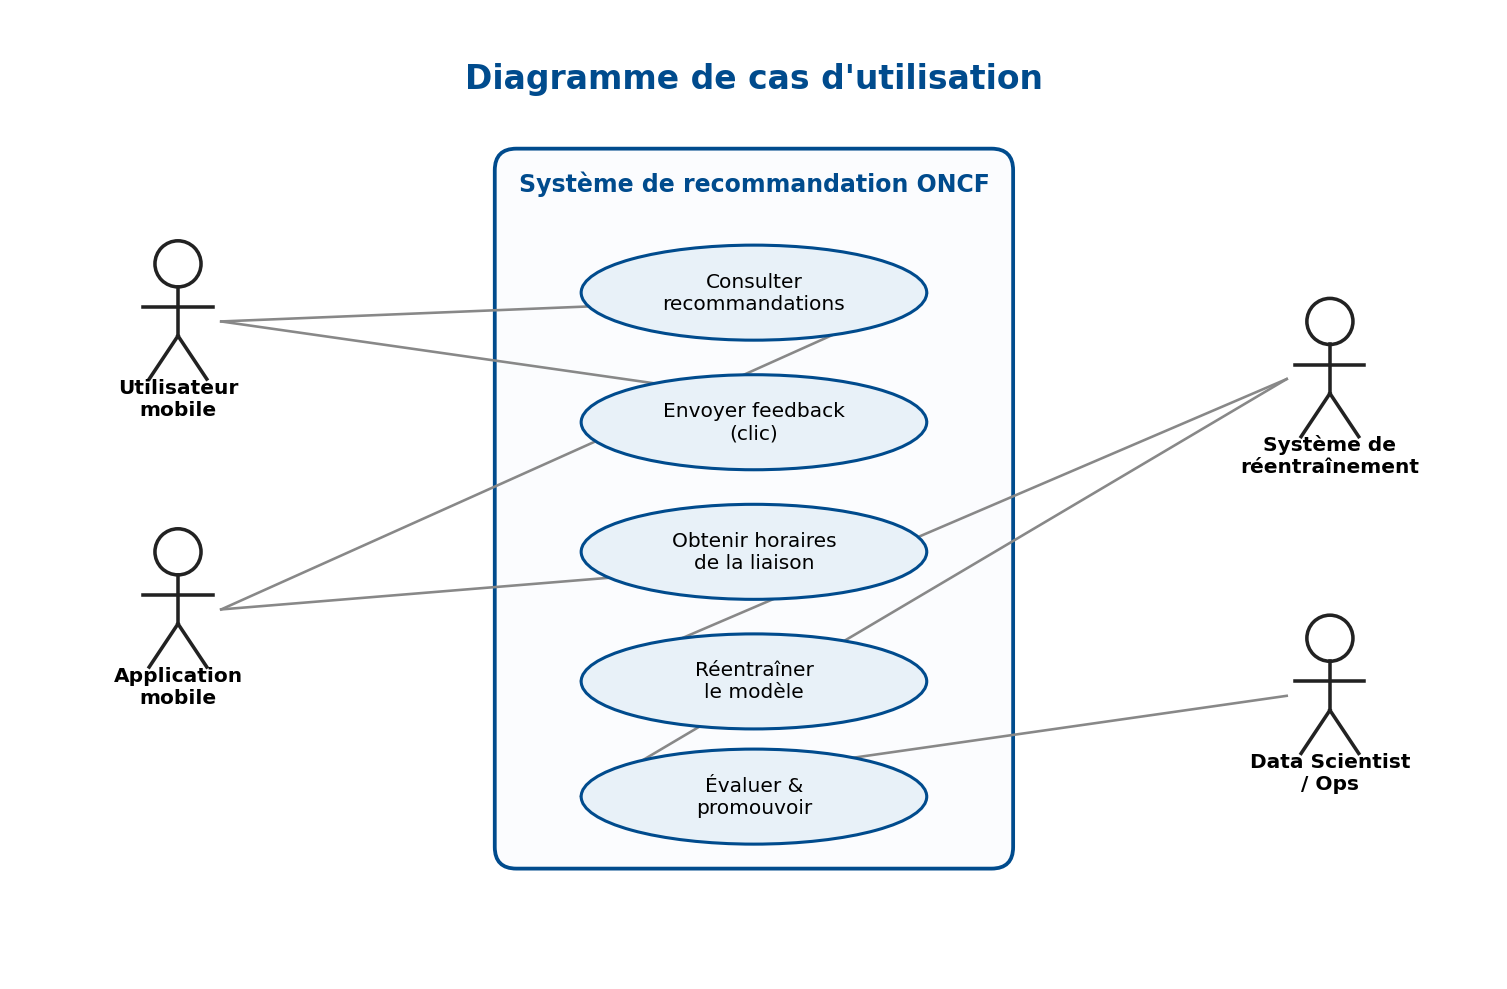
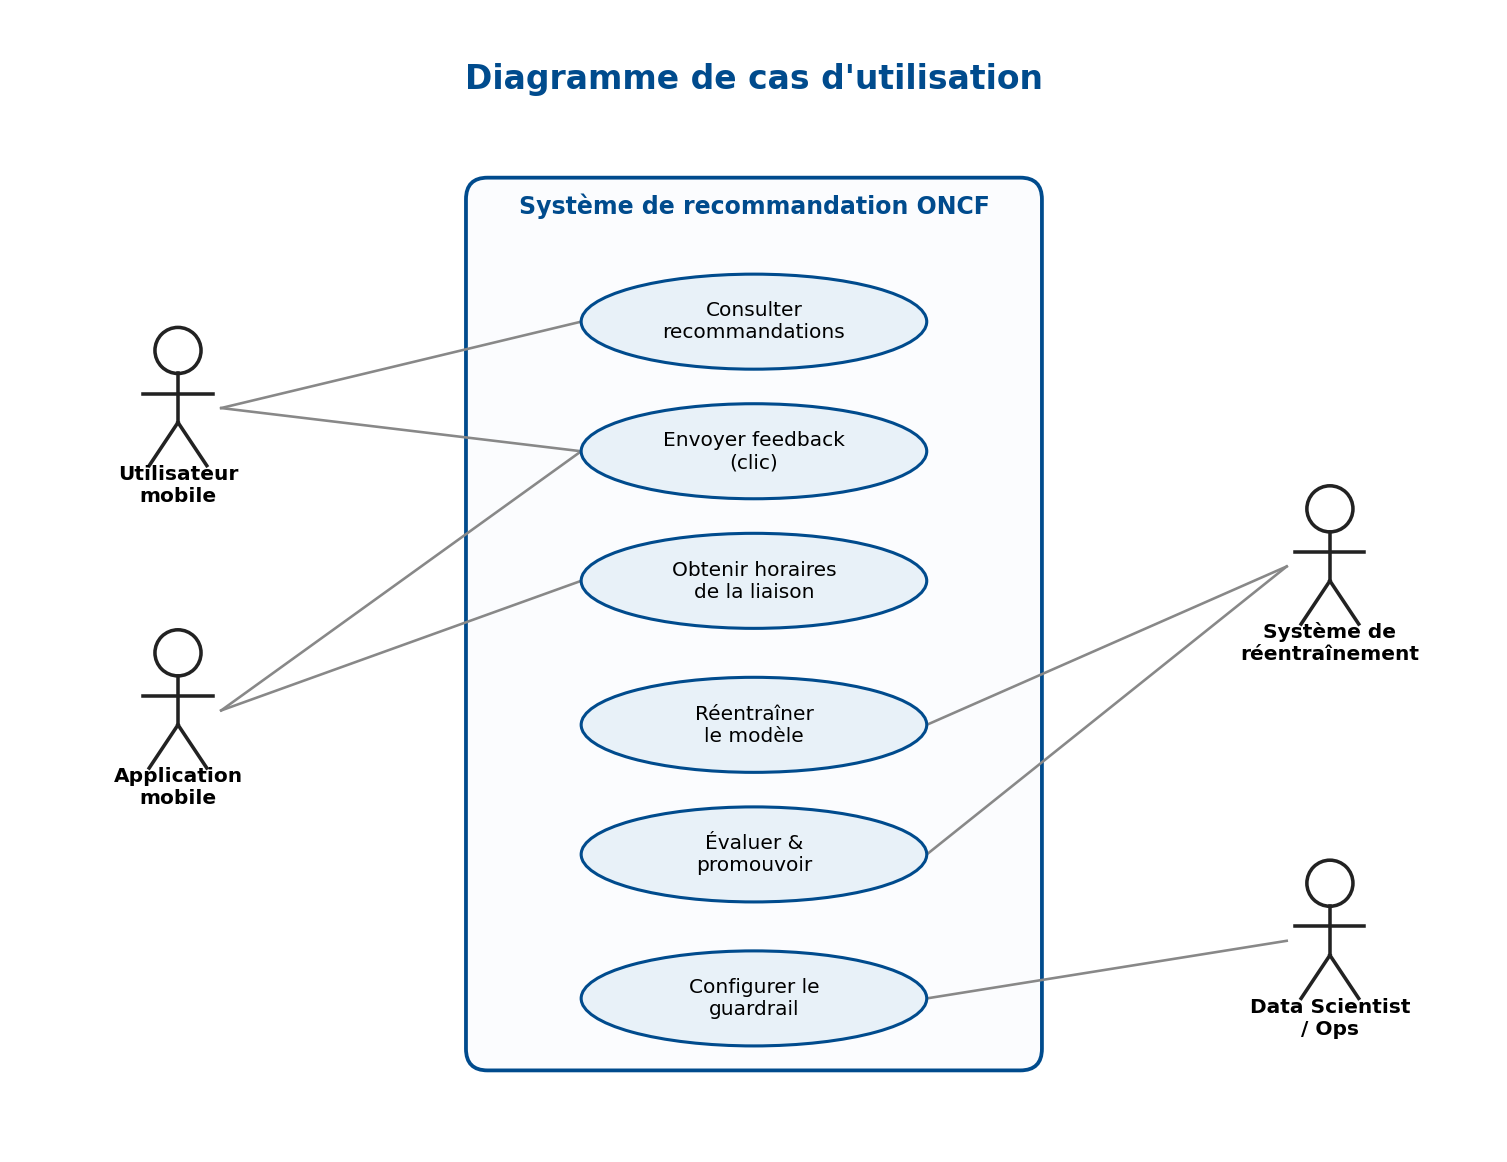
fix(figures): regen uml_usecase + uml_composants per spec
uml_usecase: add Configurer le guardrail UC, wire Application mobile
to Envoyer feedback, fix ellipse edge connectors, Data Scientist
connected to guardrail only.

uml_composants: replace 4-layer duplicate of archi_globale with a
module dependency graph (recommender/retrain to candidates, cold_start,
features, training, metrics; features/training to config).

Fix DATA path in script: data/processed/ replaced with correct
data/clean/parquet/ and data/features/parquet/.

diff --git a/scripts/generate_report_figures.py b/scripts/generate_report_figures.py
@@ -40,7 +40,8 @@ from matplotlib.patches import (  # noqa: E402
 ROOT = Path(__file__).resolve().parents[1]
 PIC = ROOT / "pic"
 PIC.mkdir(exist_ok=True)
-DATA = ROOT / "data" / "processed"
+CLEAN_DIR = ROOT / "data" / "clean" / "parquet"
+FEAT_DIR  = ROOT / "data" / "features" / "parquet"
 
 # ── Palette ONCF ───────────────────────────────────────────────────
 ORANGE = "#E65300"
@@ -154,7 +155,7 @@ def fig_gantt():
 def fig_hist_liaison_distribution():
     fig, ax = plt.subplots(figsize=(11, 4.6))
     try:
-        s = pd.read_parquet(DATA / "oncf_clean.parquet", columns=["LiaisonId"])["LiaisonId"]
+        s = pd.read_parquet(CLEAN_DIR / "oncf_clean.parquet", columns=["LiaisonId"])["LiaisonId"]
         counts = s.astype(str).value_counts().head(25)
         src = "Données réelles (oncf_clean.parquet)"
     except Exception as exc:  # noqa: BLE001
@@ -297,7 +298,7 @@ def fig_metrics_segment():
 def fig_dist_user_top_liaison_share():
     fig, ax = plt.subplots(figsize=(9.5, 4.8))
     try:
-        s = pd.read_parquet(DATA / "features.parquet",
+        s = pd.read_parquet(FEAT_DIR / "oncf_features.parquet",
                             columns=["user_top_liaison_share"])["user_top_liaison_share"]
         s = pd.to_numeric(s, errors="coerce").dropna()
         src = "Données réelles (features.parquet)"
@@ -511,38 +512,67 @@ def fig_ab_testing():
 # 3. DIAGRAMMES UML
 # ===================================================================
 def fig_uml_composants():
-    fig, ax = canvas(100, 80, figw=9)
-    title(ax, "Diagramme de composants", ymax=80)
-    groups = [
-        ("« couche API »", "apps/api/main.py", LBLUE, BLUE, 68),
-        ("« couche logique »  rec_oncf", "recommender · candidates · features · training\ncold_start · popularity · local_schedule · retrain", LOR, ORANGE, 50),
-        ("« couche modèle »  models/", "xgb_ranker.onnx · label_encoder.joblib\ncold_start.joblib · popularity.joblib · schedule_index.joblib", LGREEN, GREEN, 30),
-        ("« couche données »  data/processed/", "oncf_clean.parquet · features.parquet", GREY, DGREY, 13),
+    """Graphe de dépendances de modules rec_oncf."""
+    fig, ax = canvas(100, 88, figw=10)
+    title(ax, "Diagramme de composants : dépendances de modules", ymax=88)
+
+    BW, BH = 17, 6
+    pos = {
+        "API\n(main.py)":  (18, 80),
+        "simulation":      (82, 80),
+        "recommender":     (28, 62),
+        "retrain":         (72, 62),
+        "candidates":      ( 8, 42),
+        "cold_start":      (25, 42),
+        "features":        (46, 42),
+        "training":        (64, 42),
+        "metrics":         (83, 42),
+        "config":          (52, 22),
+    }
+    edges = [
+        ("API\n(main.py)", "recommender",   0.0),
+        ("simulation",     "recommender",  -0.2),
+        ("simulation",     "retrain",       0.0),
+        ("recommender",    "candidates",    0.1),
+        ("recommender",    "cold_start",    0.05),
+        ("recommender",    "features",      0.0),
+        ("recommender",    "training",     -0.15),
+        ("retrain",        "features",      0.12),
+        ("retrain",        "training",      0.0),
+        ("retrain",        "metrics",      -0.05),
+        ("features",       "config",        0.05),
+        ("training",       "config",       -0.05),
     ]
-    for stereo, comps, fc, ec, y in groups:
-        box(ax, 50, y, 84, 13, "", fc=fc, ec=ec)
-        # petit symbole composant UML
-        ax.add_patch(FancyBboxPatch((9.5, y + 2.0), 4, 3.2, boxstyle="square,pad=0",
-                                    fc="white", ec=ec, lw=1.2, zorder=4))
-        ax.text(50, y + 3.6, stereo, ha="center", fontsize=10, weight="bold", color=ec, style="italic")
-        ax.text(50, y - 2.4, comps, ha="center", fontsize=8.6, color="#333")
-    for y in (61.5, 43.5, 23.5):
-        arrow(ax, (50, y), (50, y - 5), color="#555", style="-|>")
-        ax.text(53, y - 2.5, "dépend de", fontsize=7.5, color="#555")
+    OR_KEYS = {"simulation", "config"}
+    for src, dst, rad in edges:
+        sx, sy = pos[src]
+        dx, dy = pos[dst]
+        arrow(ax, (sx, sy - BH / 2), (dx, dy + BH / 2),
+              color="#aaa", lw=1.0, style="-|>", rad=rad)
+    for label, (cx, cy) in pos.items():
+        fc = LOR if label in OR_KEYS else LBLUE
+        ec = ORANGE if label in OR_KEYS else BLUE
+        box(ax, cx, cy, BW, BH, label, fc=fc, ec=ec, fs=8.5)
+    ax.text(50, 10, "→   dépend de", ha="center", fontsize=9, color="#666", style="italic")
     save(fig, "uml_composants.png")
 
 
 def fig_uml_usecase():
-    fig, ax = canvas(100, 64, figw=11)
-    title(ax, "Diagramme de cas d'utilisation", ymax=64)
+    fig, ax = canvas(100, 76, figw=11)
+    title(ax, "Diagramme de cas d'utilisation", ymax=76)
     # frontière système
-    ax.add_patch(FancyBboxPatch((32, 6), 36, 50, boxstyle="round,pad=0,rounding_size=1.5",
+    ax.add_patch(FancyBboxPatch((30, 4), 40, 62, boxstyle="round,pad=0,rounding_size=1.5",
                                 fc="#FBFCFE", ec=BLUE, lw=1.6, zorder=1))
-    ax.text(50, 53, "Système de recommandation ONCF", ha="center", fontsize=10,
+    ax.text(50, 63.5, "Système de recommandation ONCF", ha="center", fontsize=10,
             weight="bold", color=BLUE, zorder=2)
-    ucs = [("Consulter\nrecommandations", 50, 46), ("Envoyer feedback\n(clic)", 50, 37),
-           ("Obtenir horaires\nde la liaison", 50, 28),
-           ("Réentraîner\nle modèle", 50, 19), ("Évaluer &\npromouvoir", 50, 11)]
+    ucs = [
+        ("Consulter\nrecommandations",     50, 56),
+        ("Envoyer feedback\n(clic)",        50, 47),
+        ("Obtenir horaires\nde la liaison", 50, 38),
+        ("Réentraîner\nle modèle",          50, 28),
+        ("Évaluer &\npromouvoir",           50, 19),
+        ("Configurer le\nguardrail",        50,  9),
+    ]
     pos = {}
     for name, x, y in ucs:
         ax.add_patch(Ellipse((x, y), 24, 6.6, fc=LBLUE, ec=BLUE, lw=1.3, zorder=2))
@@ -557,19 +587,24 @@ def fig_uml_usecase():
         ax.plot([x, x + 2], [y - 1, y - 4], color="#222", lw=1.5, zorder=3)
         ax.text(x, y - 6.5, label, ha="center", fontsize=8.5, weight="bold")
 
-    actor(ax, 10, 44, "Utilisateur\nmobile")
-    actor(ax, 10, 24, "Application\nmobile")
-    actor(ax, 90, 40, "Système de\nréentraînement")
-    actor(ax, 90, 18, "Data Scientist\n/ Ops")
+    actor(ax, 10, 50, "Utilisateur\nmobile")
+    actor(ax, 10, 29, "Application\nmobile")
+    actor(ax, 90, 39, "Système de\nréentraînement")
+    actor(ax, 90, 13, "Data Scientist\n/ Ops")
+    # (actor_x, actor_y, uc_name) — edge connects to nearest ellipse border
     links = [
-        ((13, 44), "Consulter\nrecommandations"), ((13, 44), "Envoyer feedback\n(clic)"),
-        ((13, 24), "Consulter\nrecommandations"), ((13, 24), "Obtenir horaires\nde la liaison"),
-        ((87, 40), "Réentraîner\nle modèle"), ((87, 40), "Évaluer &\npromouvoir"),
-        ((87, 18), "Évaluer &\npromouvoir"),
+        (13, 50, "Consulter\nrecommandations"),
+        (13, 50, "Envoyer feedback\n(clic)"),
+        (13, 29, "Envoyer feedback\n(clic)"),
+        (13, 29, "Obtenir horaires\nde la liaison"),
+        (87, 39, "Réentraîner\nle modèle"),
+        (87, 39, "Évaluer &\npromouvoir"),
+        (87, 13, "Configurer le\nguardrail"),
     ]
-    for (ax_, ay), name in links:
+    for actor_x, actor_y, name in links:
         bx, by = pos[name]
-        ax.plot([ax_, bx + (12 if ax_ < 50 else -12)], [ay, by], color="#888", lw=1.1, zorder=1)
+        ex = bx - 12 if actor_x < 50 else bx + 12
+        ax.plot([actor_x, ex], [actor_y, by], color="#888", lw=1.1, zorder=1)
     save(fig, "uml_usecase.png")
 
 